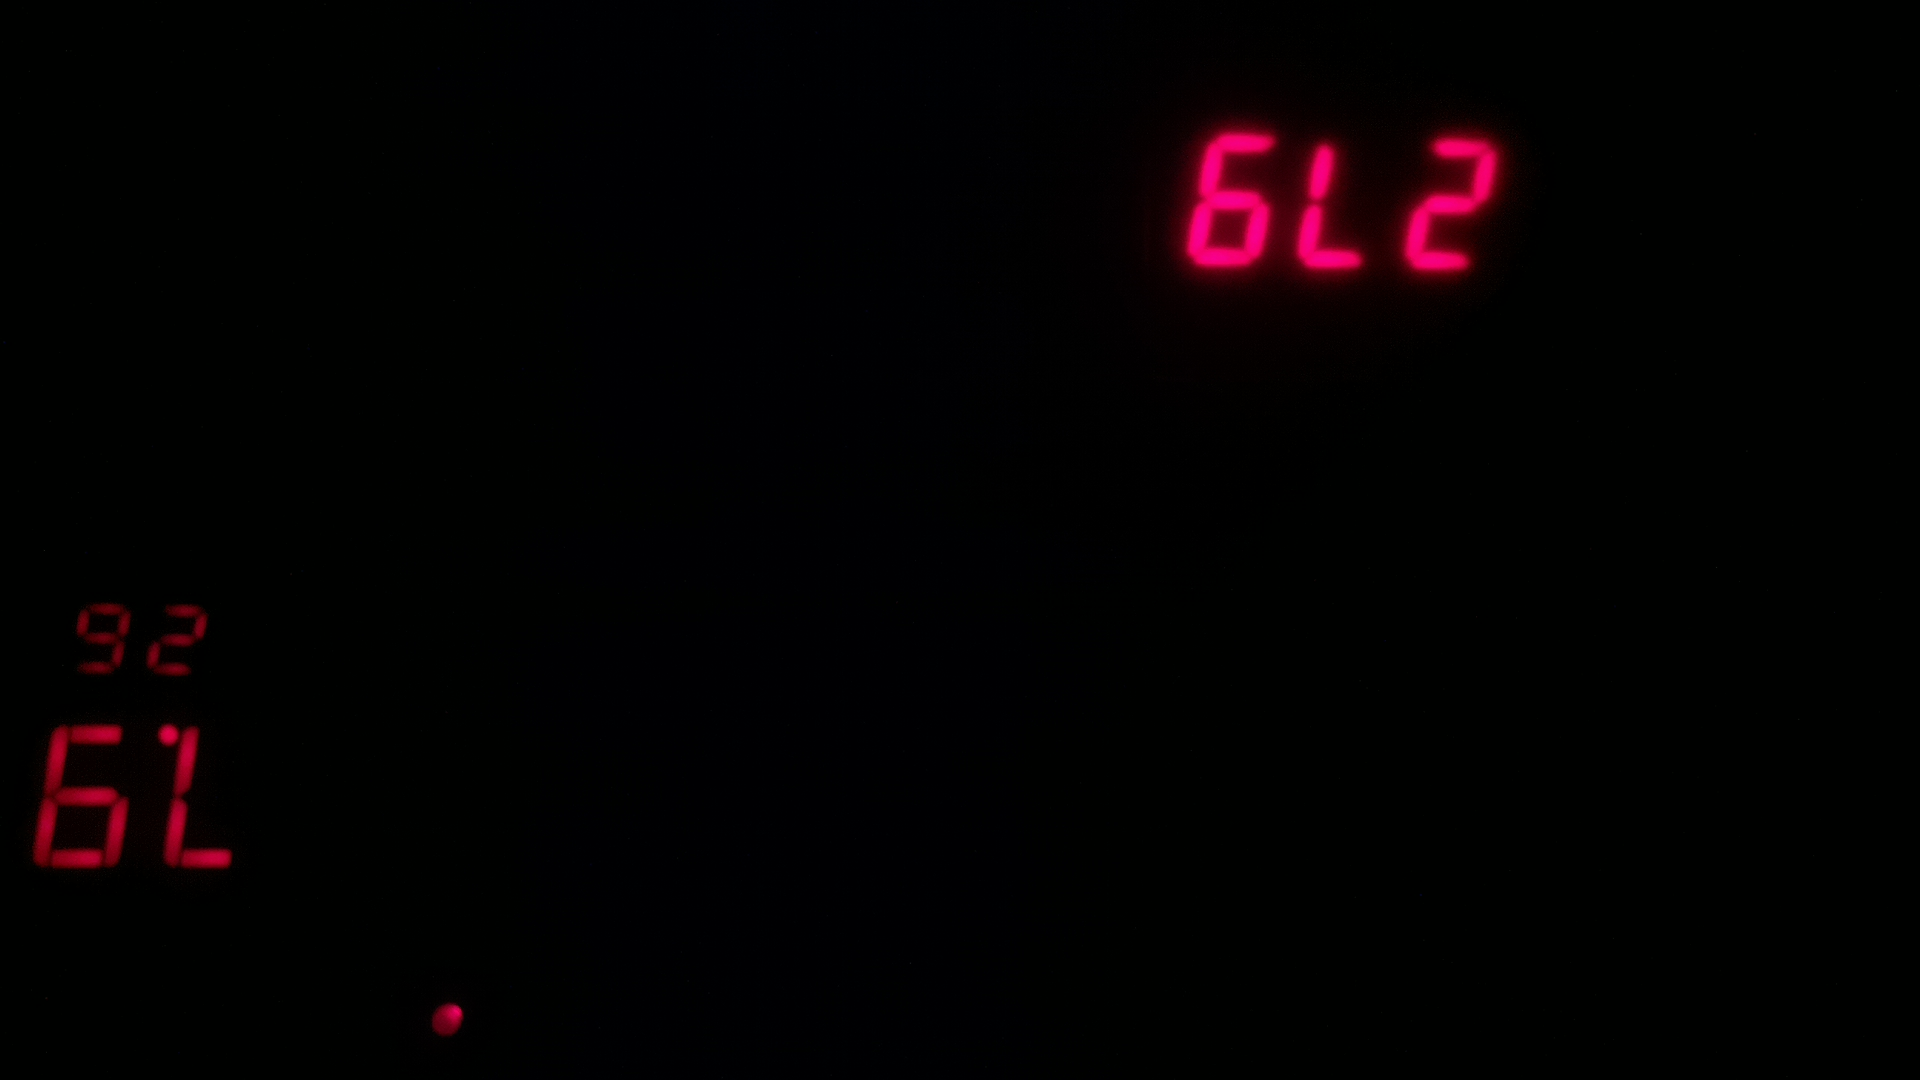
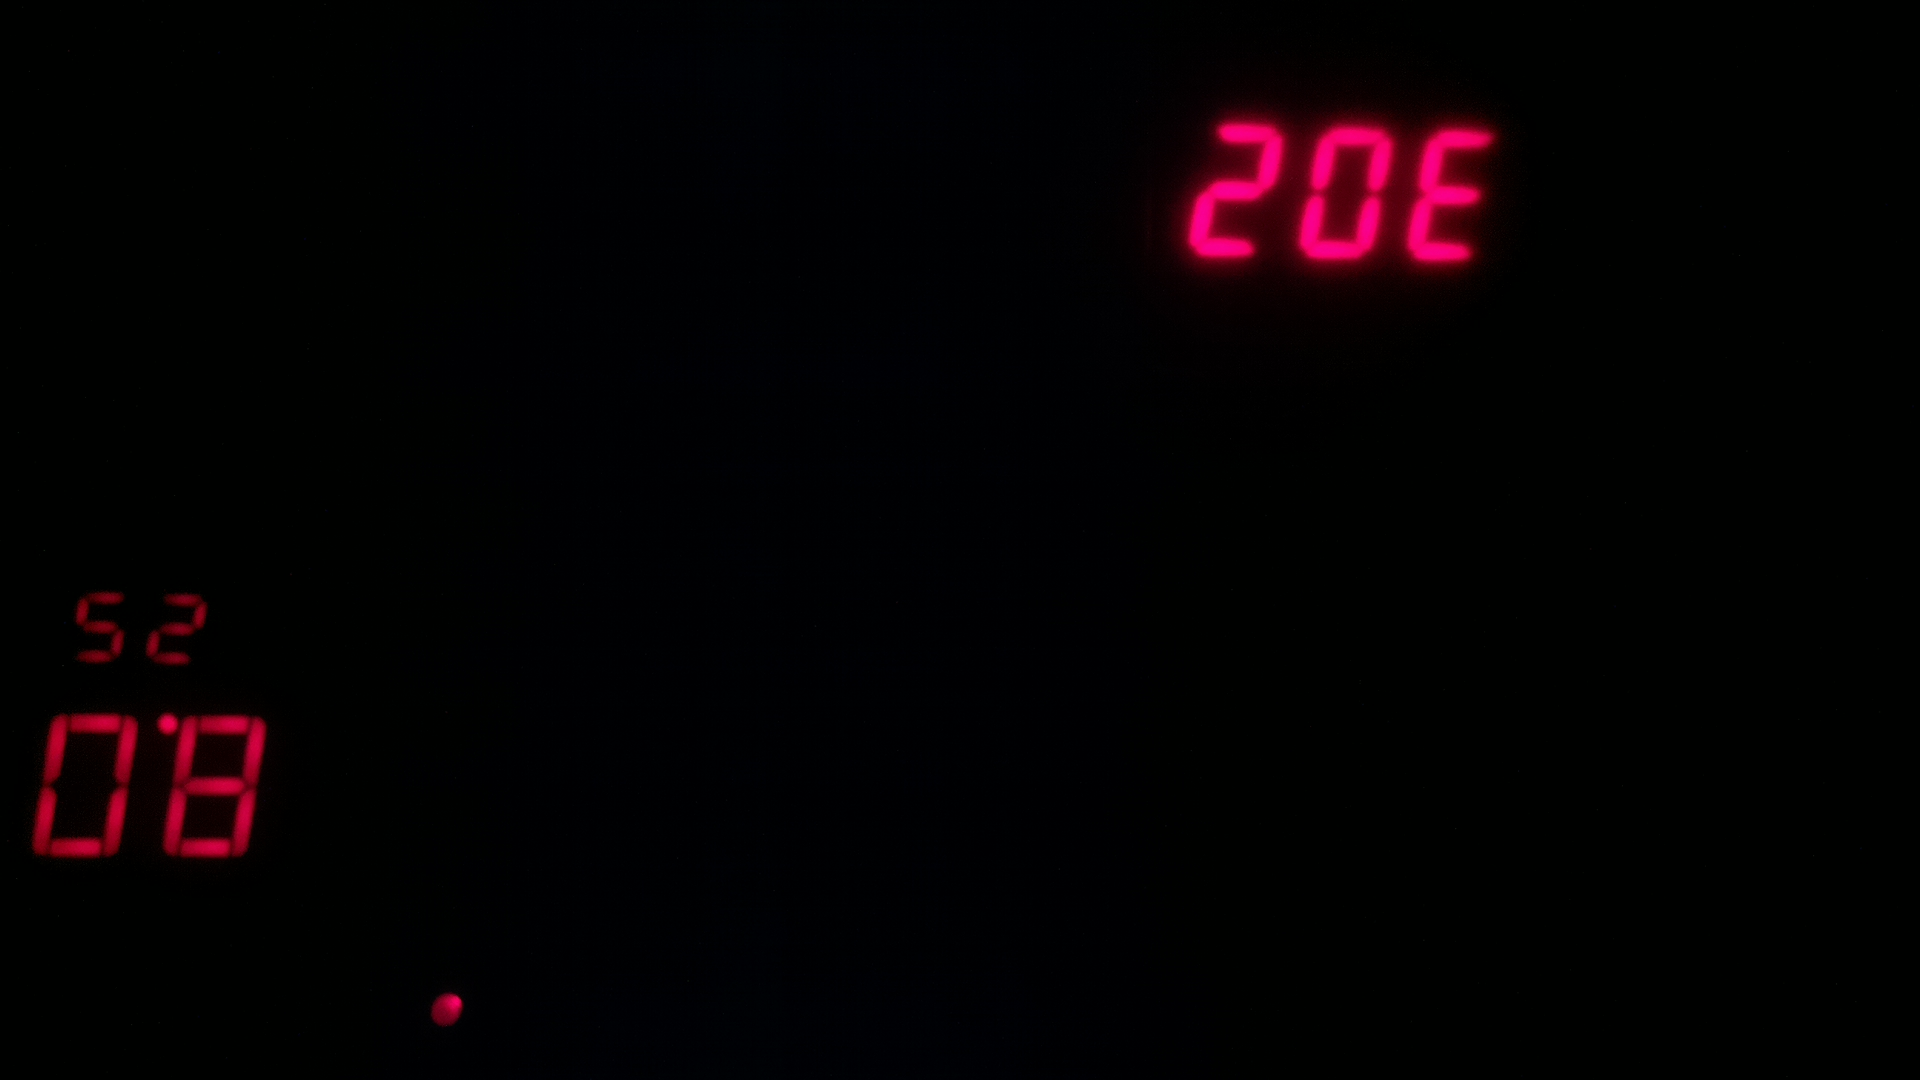
Improvement for T reading

Changed region(s): [[0.5938, 0.0917, 0.8125, 0.275], [0.0, 0.55, 0.1562, 0.825], [0.2188, 0.9167, 0.25, 0.9778]]

diff --git a/RedseaWatcher.py b/RedseaWatcher.py
@@ -27,6 +27,7 @@ def get_token ():
 def get_words (jpg):
     #request_url = "https://aip.baidubce.com/rest/2.0/ocr/v1/general_basic"
     request_url = "https://aip.baidubce.com/rest/2.0/ocr/v1/accurate_basic"
+    #request_url = "https://aip.baidubce.com/rest/2.0/ocr/v1/numbers"
     f = open(jpg, 'rb')
     img = base64.b64encode(f.read())
 
@@ -35,6 +36,7 @@ def get_words (jpg):
     request_url = request_url + "?access_token=" + access_token
     headers = {'content-type': 'application/x-www-form-urlencoded'}
     response = requests.post(request_url, data=params, headers=headers)
+    print (response)
     token_key = ""
     if response:
         token_info = response.json()
@@ -42,10 +44,43 @@ def get_words (jpg):
         num = token_info['words_result_num']
         if num > 0:
             token_key = token_info['words_result']
-            print (str(len(token_key))+":"+json.dumps(token_key))
+            print (str(len(token_key)) + ":" + json.dumps(token_key))
             return token_key
 
     return ""
+
+# From words into temperature
+def getTemperature (words):
+        T_str = words.strip()
+        T_float = 0
+        if (T_str == "2S" or T_str == "2s"):
+            T_f = 25
+        else:
+            T_f = float(T_str)
+
+        if (T_f  > 20 and T_f < 30):
+            return "T {:.1f}".format(T_f) + "\n"
+
+# From words into ORP
+def getORP (words):
+    ORP = float(words)
+    if ORP > 100 :
+        return "ORP {:.1f}".format(ORP) + "\n"
+
+# From words into PH
+def getPH (words):
+    PH = float(words)
+    if PH > 75 and PH < 85 :
+        return "PH {:.1f}".format((PH/10)) + "\n"
+    elif PH == 19 or PH == 9:
+        return "PH 7.9\n"
+    elif PH == 0:
+        return "PH 8.0\n"
+    elif PH > 7.5 and PH < 9 :
+        return "PH {:.1f}".format(PH) + "\n"
+    else: # possible to be T?
+        return getTemperature(words)
+
 
 # To analysis the return values
 def populate (words_result):
@@ -56,32 +91,26 @@ def populate (words_result):
         return metrics
 
     if (size > 0): # ORP data
-        ORP = float(words_result[0]['words'])
-        if ORP > 200 :
-            metrics = "ORP {:.1f}".format(ORP) + "\n"
-            size = size - 1
+        metrics = metrics + getORP(words_result[0]['words'])
 
-    if (size > 0): # PH Data
-        PH = float(words_result[1]['words'])
-        if PH > 70 :
-            metrics = metrics + "PH {:.1f}".format((PH/10)) + "\n"
-        elif PH == 19 or PH == 9:
-            metrics = metrics + "PH 7.9\n"
-        elif PH == 0:
-            metrics = metrics + "PH 8.0\n"
-        elif PH > 8 and PH < 9 :
-            metrics = metrics + "PH {:.1f}".format(PH) + "\n"
-        size = size - 1
+    if (size > 1): # PH Data
+        metrics = metrics + getPH(words_result[1]['words'])
 
-    if (size > 0): # T Data
-        T = float(words_result[2]['words'])
-        metrics = metrics + "T {:.1f}".format(T) + "\n"
-    elif (size == 0): # Missing PH data
-        if PH == 24 or PH == 25 or PH == 26:
-            metrics = metrics + "PH \nT {:.1f}".format(PH) + "\n"
+    if (size > 2): # T Data
+        metrics = metrics + getTemperature(words_result[2]['words'])
 
     return metrics
 
+def getTemperature (words):
+        T_str = words.strip()
+        T_float = 0
+        if (T_str == "2S" or T_str == "2s"):
+            T_f = 25
+        else:
+            T_f = float(T_str)
+
+        if (T_f  > 20 and T_f < 30):
+            return "T {:.1f}".format(T_f) + "\n"
 
 app = Flask(__name__)
 
